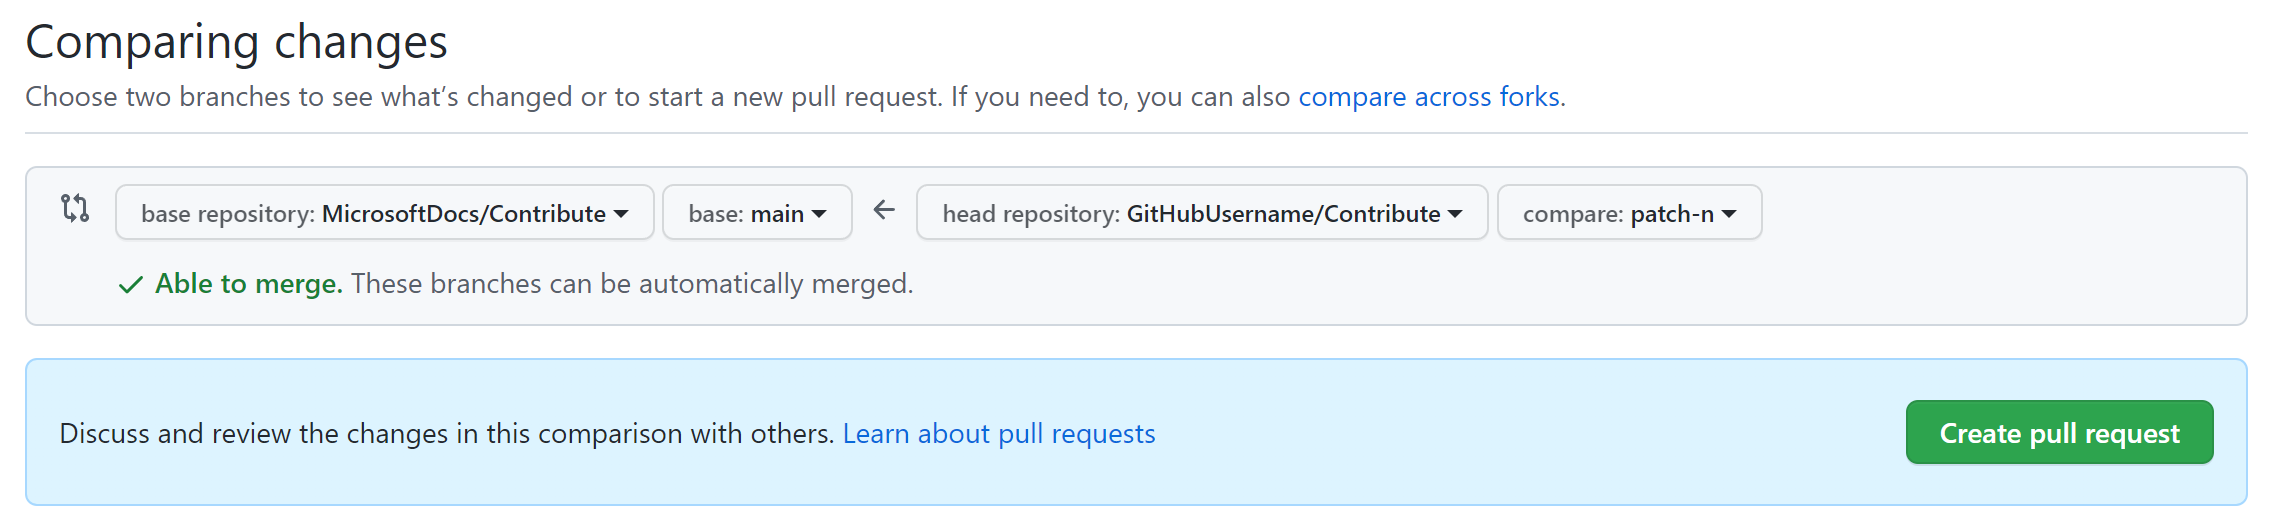
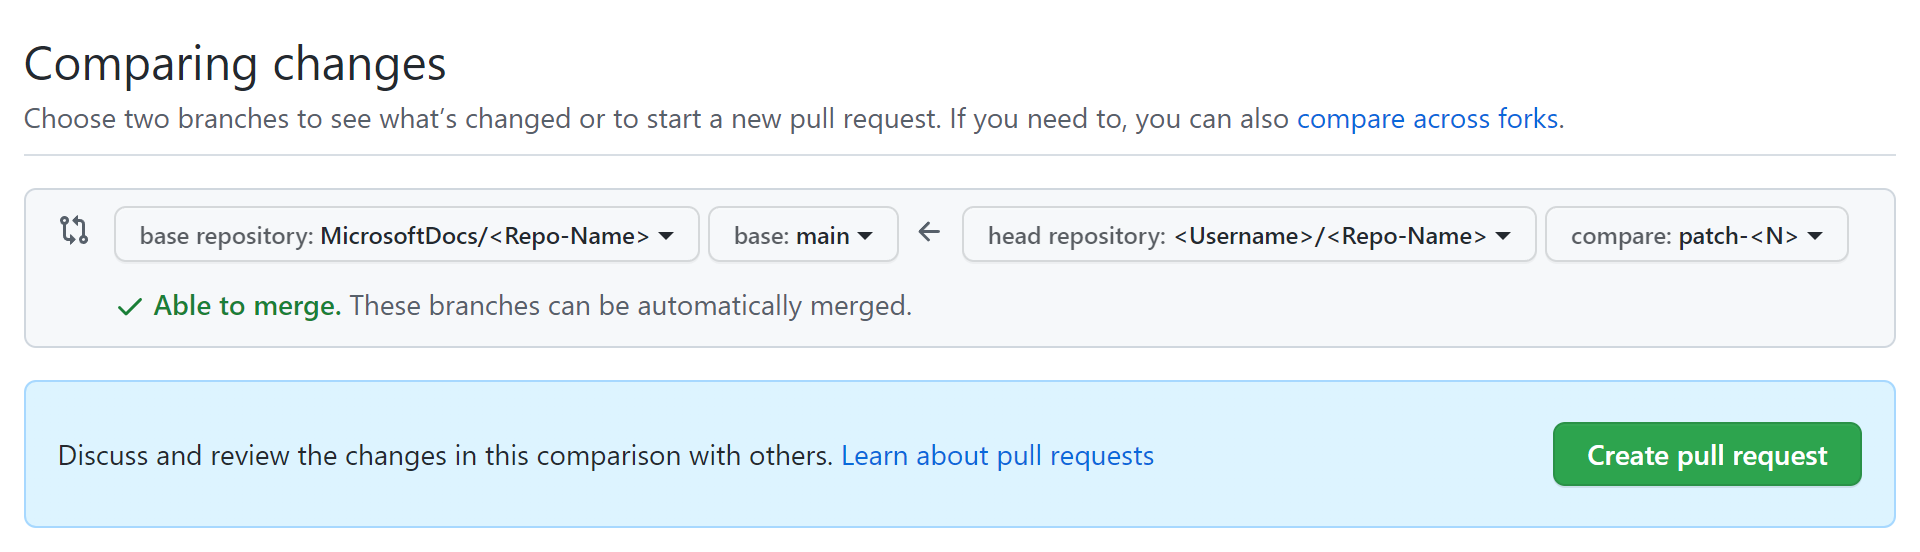
Minor consistency and understandability improvements

diff --git a/Contribute/index.md b/Contribute/index.md
@@ -1,42 +1,42 @@
 ---
-title: Microsoft Docs contributor guide overview
+title: Microsoft Docs Contributor Guide overview
 description: The guide describes how you can contribute to the Microsoft documentation site docs.microsoft.com.
 author: carlyrevier
 ms.author: cahublou
-ms.date: 05/11/2022
+ms.date: 05/21/2022
 ms.topic: contributor-guide
 ms.prod: non-product-specific
 ms.custom: external-contributor-guide
 ---
 
-# Microsoft Docs contributor guide overview
+# Microsoft Docs Contributor Guide overview
 
 Welcome to the [docs.microsoft.com](https://docs.microsoft.com) (Microsoft Docs) contributor guide!
 
-Several of the Microsoft documentation sets are open source and hosted on GitHub. Not all document sets are completely open source, but many have public-facing repos where you can suggest changes via pull requests (PR). This open-source approach streamlines and improves communication between product engineers, content teams, and customers, and it has other advantages:
+Several of the Microsoft documentation sets are open source and hosted on GitHub. Not all documentation sets are completely open source, but many have public-facing repositories (repos) where you can suggest changes via pull requests (PRs). This open-source approach streamlines and improves communication between product engineers, content teams, and customers, and it has other advantages:
 
-- Open-source repos _plan in the open_ to get feedback on what docs are most needed.
-- Open-source repos _review in the open_ to publish the most helpful content on our first release.
-- Open-source repos _update in the open_ to make it easier to continuously improve the content.
+- Open-source repos *plan in the open* to get feedback on what docs are most needed.
+- Open-source repos *review in the open* to publish the most helpful content on our first release.
+- Open-source repos *update in the open* to make it easier to continuously improve the content.
 
-The user experience on Microsoft Docs integrates [GitHub](https://github.com) workflows directly to make it even easier. Start by [editing the document you're viewing](#quick-edits-to-documentation). Or help by [reviewing new topics](#review-open-prs) or [creating quality issues](#create-quality-issues).
+The Microsoft Docs contributor experience integrates [GitHub](https://github.com) workflows directly to make it even easier. Start by [editing the document you're viewing](#quick-edits-to-documentation) or help by [reviewing new topics](#review-open-prs) or [creating quality issues](#create-quality-issues).
 
 > [!IMPORTANT]
-> All repositories that publish to docs.microsoft.com have adopted the [Microsoft Open Source Code of Conduct](https://opensource.microsoft.com/codeofconduct/) or the [.NET Foundation Code of Conduct](https://dotnetfoundation.org/code-of-conduct). For more information, see the [Code of Conduct FAQ](https://opensource.microsoft.com/codeofconduct/faq/). Contact [opencode@microsoft.com](mailto:opencode@microsoft.com) or [conduct@dotnetfoundation.org](mailto:conduct@dotnetfoundation.org) with any questions or comments.<br>
+> All repositories that publish to docs.microsoft.com have adopted the [Microsoft Open Source Code of Conduct](https://opensource.microsoft.com/codeofconduct/) or the [.NET Foundation Code of Conduct](https://dotnetfoundation.org/about/code-of-conduct). For more information, see the [Code of Conduct FAQ](https://opensource.microsoft.com/codeofconduct/faq/). Contact [opencode@microsoft.com](mailto:opencode@microsoft.com) or [conduct@dotnetfoundation.org](mailto:conduct@dotnetfoundation.org) with any questions or comments.
 >
 > Minor corrections or clarifications to documentation and code examples in public repositories are covered by the [docs.microsoft.com Terms of Use](/legal/termsofuse). New or significant changes generate a comment in the PR, asking you to submit an online Contribution License Agreement (CLA) if you're not a Microsoft employee. We need you to complete the online form before we can review or accept your PR.
 
 ## Quick edits to documentation
 
-Quick edits streamline the process to report and fix small errors and omissions in documentation. Despite all efforts, small grammar and spelling errors _do_ make their way into our published documents. While you can create issues to report mistakes, it's faster and easier to create a PR to fix the issue, when the option is available.
+Quick edits streamline the process to report and fix small errors and omissions in documentation. Despite all efforts, small grammar and spelling errors *do* make their way into our published documents. While you can create issues to report mistakes, it's faster and easier to create a PR to fix the issue, when the option is available.
 
-1. _Some_ docs pages allow you to edit content directly in the browser. If so, you'll see an **Edit** button like the one shown below. Choosing the **Edit** (or equivalently localized) button takes you to the source file on GitHub.
+1. Many docs pages allow you to edit content. If so, you'll see a **Pencil** icon like the one shown below, sometimes labelled as "Edit This Document" or simply "Edit". Choosing the **Pencil** icon, takes you to the source file on GitHub.
 
-   :::image type="content" source="media/index/edit-article.png" alt-text="Location of the edit article link.":::
+   :::image type="content" source="media/index/edit-article.png" alt-text="Location of the edit article link." border="false":::
 
-   If the **Edit** button isn't present, it means the content isn't open to public contributions.  Some pages are generated (for example, from inline documentation in code) and must be edited in the project they belong to.
+   If the pencil icon isn't present, the content might not be open to public contributions. Some pages are generated (for example, from inline documentation in code) and must be edited in the project they belong to. This isn't always the case and you might be able to find the documentation repository by searching the [Microsoft Docs Organization on GitHub](https://github.com/MicrosoftDocs).
 
-2. Select the pencil icon to edit the article. If the pencil icon is grayed out, you need to either log in to your GitHub account or create a new account.
+2. In GitHub, select the **Pencil** icon to edit the article. If the pencil icon is grayed out, you need to either sign in to your GitHub account or create a new account.
 
    :::image type="content" source="media/index/edit-icon.png" alt-text="Location of the fork and edit pencil icon.":::
 
@@ -46,15 +46,15 @@ Quick edits streamline the process to report and fix small errors and omissions 
 
    :::image type="content" source="media/index/commit-changes.png" alt-text="Propose and commit file changes.":::
 
-5. Now that you've proposed and committed your changes, you need to ask the owners of the repository to "pull" your changes into their repository. This is done using something called a "pull request" (PR). When you select **Propose changes**, a new page similar to the following is displayed:
+5. Now that you've proposed and committed your changes, you need to ask the owners of the repository to "pull" your changes into their repository. This is done using something called a pull request (PR). When you select **Propose changes**, a new page similar to the following is displayed:
 
-   :::image type="content" source="media/index/create-pull-request.png" alt-text="Compare changes and create pull request.":::
+   :::image type="content" source="media/index/create-pull-request.png" alt-text="Compare changes and create pull request." lightbox="media/index/create-pull-request.png":::
 
    Select **Create pull request**. Next, enter a title and a description for the PR, and then select **Create pull request**. If you're new to GitHub, see [About pull requests](https://docs.github.com/articles/using-pull-requests) for more information.
 
 6. That's it! Content team members will review your PR and merge it when it's approved. You may get feedback requesting changes.
 
-The GitHub editing UI responds to your permissions on the repository. The preceding images are for contributors who don't have write permissions to the target repository. GitHub automatically creates a fork of the target repository in your account. The newly created fork name has the form **`GitHubUsername`/`RepositoryName`** by default. If you have write access to the target repository, such as your fork, GitHub creates a new branch in the target repository. The branch name has the default form **patch-`n`**, using a numeric identifier for the patch branch.
+The GitHub editing UI responds to your permissions on the repository. The preceding images are for contributors who don't have write permissions to the target repository. GitHub automatically creates a fork of the target repository in your account. The newly created fork name has the form **`<Username>`/`<Repo-Name>`** by default. If you have write access to the target repository, such as your fork, GitHub creates a new branch in the target repository. The branch name has the default form **patch-`<N>`**, using a numeric identifier for the patch branch.
 
 We use PRs for all changes, even for contributors who have write access. Most repositories protect the default branch so that updates must be submitted as PRs.
 
@@ -64,7 +64,7 @@ The in-browser editing experience is best for minor or infrequent changes. If yo
 
 ## Review open PRs
 
-You can read new topics before they're published by checking the open PR queue. Reviews follow the [GitHub flow](https://guides.github.com/introduction/flow/) process. You can see proposed updates or new articles in public repositories. Review them and add your comments. Look at any of our Docs repositories, and check the open PRs for areas that interest you. Community feedback on proposed updates helps the entire community.
+You can review new topics before they're published by checking the open PRs in Microsoft Docs repositories. Reviews follow the [GitHub flow](https://docs.github.com/articles/github-flow) process. You can see proposed updates or new articles in public repositories. Review them and add your comments. Look at any of our Docs repositories, and check the open PRs for areas that interest you. Community feedback on proposed updates helps the entire community.
 
 ## Create quality issues
 
